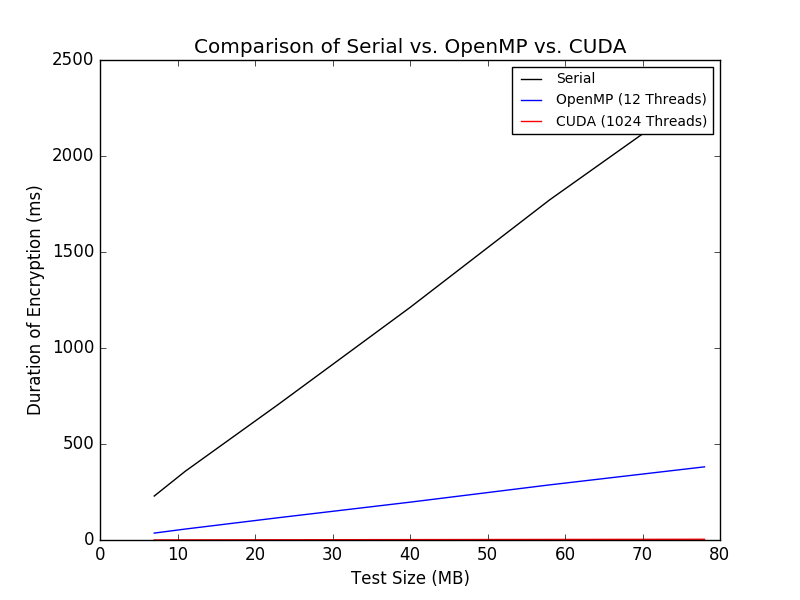
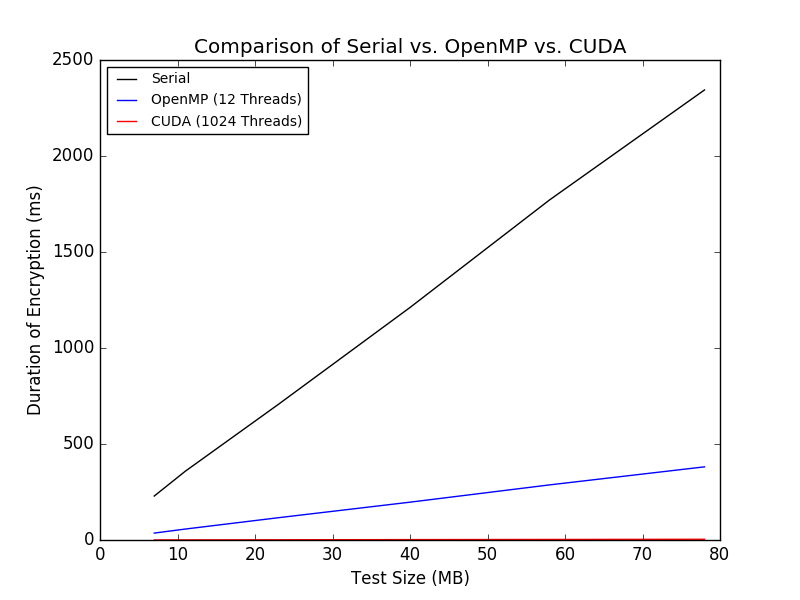
Added New Figs

Changed region(s): [[0.625, 0.09, 0.9062, 0.24], [0.125, 0.09, 0.4062, 0.24]]

diff --git a/data.py b/data.py
@@ -16,7 +16,7 @@ plt.plot(test_sizes, serial, color="black")
 plt.plot(test_sizes, openmp_best, color="blue")
 plt.plot(test_sizes, cuda_best, color="red")
 
-plt.legend(['Serial', 'OpenMP (12 Threads)', 'CUDA (1024 Threads)'], prop=fontP)
+plt.legend(['Serial', 'OpenMP (12 Threads)', 'CUDA (1024 Threads)'], prop=fontP, loc=2)
 plt.title('Comparison of Serial vs. OpenMP vs. CUDA')
 plt.xlabel('Test Size (MB)')
 plt.ylabel('Duration of Encryption (ms)')
@@ -24,34 +24,46 @@ plt.ylabel('Duration of Encryption (ms)')
 plt.savefig("fig1.png")
 plt.show()
 
-######## OPENMP ##########
+######## OPENMP 2 - 8 ##########
 
 _2 = [118, 182, 367, 612, 898, 1181]
 _4 = [68, 95, 192, 329, 475, 594]
 _6 = [50, 80, 158, 264, 370, 487]
 _8 = [49, 78, 152, 262, 371, 486]
+
+plt.plot(test_sizes, _2, color="black")
+plt.plot(test_sizes, _4, color="brown")
+plt.plot(test_sizes, _6, color="blue")
+plt.plot(test_sizes, _8, color="green")
+
+plt.legend(['2 Threads', '4 Threads', '6 Threads', '8 Threads'], prop=fontP, loc=2)
+plt.title('OpenMP Comparison')
+plt.xlabel('Test Size (MB)')
+plt.ylabel('Duration of Encryption (ms)')
+
+plt.savefig("fig2.png")
+plt.show()
+
+######## OPENMP 10 - 18 ##########
+
 _10 = [41, 65, 133, 223, 331, 434]
 _12 = [36, 57, 116, 197, 287, 381]
 _14 = [53, 74, 133, 219, 309, 414]
 _16 = [51, 71, 131, 216, 312, 414]
 _18 = [45, 67, 132, 207, 304, 417]
 
-plt.plot(test_sizes, _2, color="black")
-plt.plot(test_sizes, _4, color="brown")
-plt.plot(test_sizes, _6, color="blue")
-plt.plot(test_sizes, _8, color="pink")
 plt.plot(test_sizes, _10, color="cyan")
 plt.plot(test_sizes, _12, color="orange")
 plt.plot(test_sizes, _14, color="red")
 plt.plot(test_sizes, _16, color="yellow")
 plt.plot(test_sizes, _18, color="green")
 
-plt.legend(['2 Threads', '4 Threads', '6 Threads', '8 Threads', '10 Threads', '12 Threads', '14 Threads', '15 Threads', '18 Threads'], prop=fontP)
+plt.legend(['10 Threads', '12 Threads', '14 Threads', '15 Threads', '18 Threads'], prop=fontP, loc=2)
 plt.title('OpenMP Comparison')
 plt.xlabel('Test Size (MB)')
 plt.ylabel('Duration of Encryption (ms)')
 
-plt.savefig("fig2.png")
+plt.savefig("fig3.png")
 plt.show()
 
 ######## CUDA ##########
@@ -66,10 +78,10 @@ plt.plot(test_sizes, _256, color="red")
 plt.plot(test_sizes, _512, color="blue")
 plt.plot(test_sizes, _1024, color="black")
 
-plt.legend(['128 Threads', '256 Threads', '512 Threads', '1024 Threads'], prop=fontP)
+plt.legend(['128 Threads', '256 Threads', '512 Threads', '1024 Threads'], prop=fontP, loc=2)
 plt.title('CUDA Comparison (Threads/Block)')
 plt.xlabel('Test Size (MB)')
 plt.ylabel('Duration of Encryption (ms)')
 
-plt.savefig("fig3.png")
+plt.savefig("fig4.png")
 plt.show()
